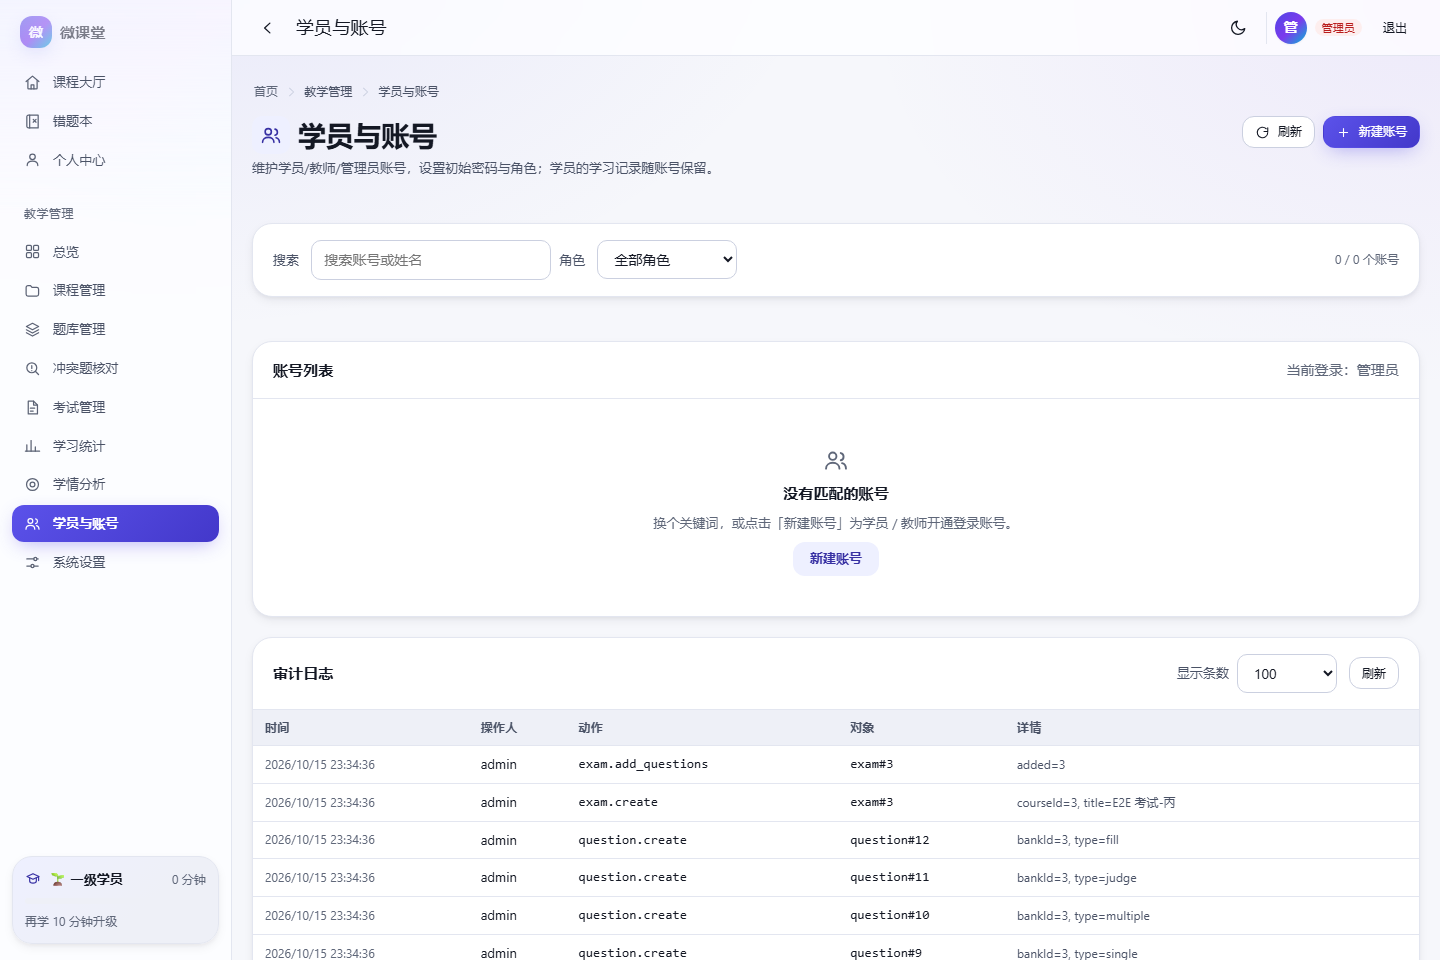
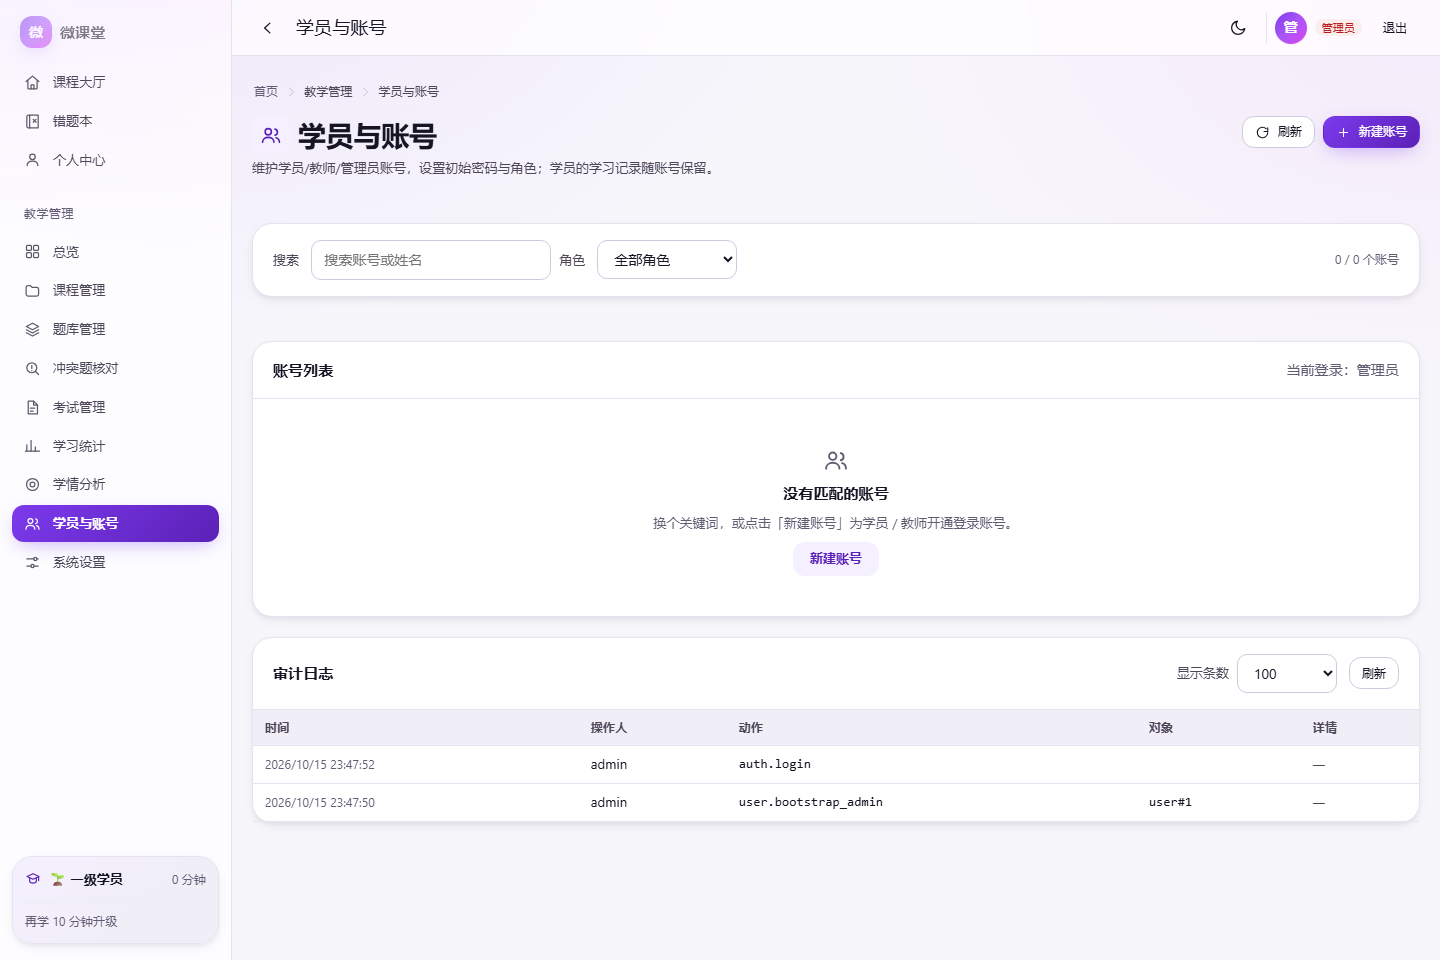
feat(web): 配色改为「紫霞」——紫罗兰 × 品红 + 琥珀点缀
用户否掉第一版靛蓝（"说白了还是蓝色"）。改为明确的紫系，并用对比图让用户在
紫霞 / 松风（翡翠绿）/ 朱砂（玫红橙）三选一，最终选定紫霞。

- 主色 #7c3aed（紫罗兰）、强调 #d946ef（品红）、暖点缀 #f59e0b（琥珀）
- 选它的工程原因：不与语义色打架 —— 危险仍靠红、成功仍靠绿，紫系不会让警示失去辨识度
- 全套替换：色阶(50-900)、中性阶(紫调)、渐变(brand/primary/accent)、品牌光晕、
  毛玻璃、图表色板、暗色主题一一对应
- 渐变主按钮两端压深（#7c3aed → #5b21b6）保证白字 >=4.5:1；
  登录页品牌面板收尾改用 --mc-accent-fg（#a21caf）而非品红本体（后者白字仅 3.2:1）
- 登录页装饰光斑由青改琥珀，呼应"琥珀点缀"
- 新增 --mc-amber / --mc-amber-soft / --mc-amber-border / --mc-amber-fg 令牌

验证：design-guard / 令牌兼容（旧名全保留）/ axe 无障碍 E2E / E2E 32-32 /
单测 478 / prettier+eslint+typecheck+build 全绿；视觉基线重生成；
README 六张展示图同步为紫霞配色。（按用户要求：仅本地提交，暂不推送）

diff --git a/apps/web/src/styles/tokens.css b/apps/web/src/styles/tokens.css
@@ -3,40 +3,50 @@
  * 所有颜色、间距、圆角、阴影、字体只在此处定义，组件禁止硬编码色值。
  * 暗色模式通过 <html data-theme="dark"> 切换同一组语义变量。
  *
- * ============ 2.1 视觉体系（2026-10-15）============
- * 方向：**靛蓝 × 紫罗兰 × 青** 三色品牌体系 —— 比原先的"通用蓝"更有辨识度，
- * 用于渐变封面、按钮光晕、卡片描边与图表；圆角整体放大一档；阴影改分层柔和 + 品牌光晕；
- * 动效统一到「先快后缓」的顺滑曲线，并提供 hover 抬升 / 缩放令牌给"动态卡片"用。
+ * ============ 2.2 视觉体系（2026-10-15）============
+ * 方向：**紫霞 —— 紫罗兰 × 品红 + 琥珀点缀**。
+ * 第一版做成"靛蓝"被否（本质还是蓝），改为明确的紫系：主色 `#7c3aed`、强调 `#d946ef`、
+ * 暖点缀 `#f59e0b`。选它还有个工程原因：**不与语义色打架** ——
+ * 危险/错误仍靠红、成功/掌握仍靠绿，紫系不会让警示失去辨识度。
+ *
+ * 圆角整体放大一档；阴影分层柔和 + 品牌光晕；动效统一「先快后缓」曲线。
  *
  * 兼容性：**只加不改名** —— 既有令牌名全部保留（值可能调整），组件无需改动即可换脸。
  */
 
 :root {
   /* ================= 品牌色 ================= */
-  --mc-primary: #4f46e5;
-  --mc-primary-hover: #4338ca;
-  --mc-primary-active: #3730a3;
-  --mc-primary-soft: #eef0ff;
-  --mc-primary-border: #c7cbfb;
-  /* 压在浅色底上的主色文字（axe 扫描：填充色直接做文字对比度不足 4.5:1） */
-  --mc-primary-fg: #3730a3;
+  --mc-primary: #7c3aed;
+  --mc-primary-hover: #6d28d9;
+  --mc-primary-active: #5b21b6;
+  --mc-primary-soft: #f5f0ff;
+  --mc-primary-border: #ddd0fe;
+  /* 压在浅色底上的主色文字（填充色直接做文字对比度不足 4.5:1） */
+  --mc-primary-fg: #5b21b6;
 
-  /* 第二品牌色（紫罗兰）：用于渐变、强调标签、封面叠色 */
-  --mc-accent: #7c3aed;
-  --mc-accent-hover: #6d28d9;
-  --mc-accent-soft: #f5f0ff;
-  --mc-accent-border: #ddd0fe;
-  --mc-accent-fg: #6d28d9;
-  /* 第三品牌色（青）：用于数据高亮、进度、图表 */
-  --mc-cyan: #06b6d4;
+  /* 第二品牌色（品红）：渐变收尾、强调标签、封面叠色 */
+  --mc-accent: #d946ef;
+  --mc-accent-hover: #c026d3;
+  --mc-accent-soft: #fdf0ff;
+  --mc-accent-border: #f3c9fb;
+  --mc-accent-fg: #a21caf;
+
+  /* 暖点缀（琥珀）：与紫系互补，用于徽标、图表、装饰光斑 */
+  --mc-amber: #f59e0b;
+  --mc-amber-soft: #fff7e8;
+  --mc-amber-border: #f6d99a;
+  --mc-amber-fg: #8a5200;
+
+  /* 冷点缀（青）：留给图表与数据高亮，不参与品牌渐变 */
+  --mc-cyan: #0891b2;
   --mc-cyan-soft: #e6faff;
   --mc-cyan-border: #a5eef9;
   --mc-cyan-fg: #0e7490;
 
-  /* ================= 语义色 ================= */
+  /* ================= 语义色（与品牌色刻意分离） ================= */
   --mc-success: #0b8a4b;
   --mc-success-soft: #e8f8ef;
-  --mc-warning: #c2740a;
+  --mc-warning: #b45309;
   --mc-warning-soft: #fff6e8;
   --mc-warning-border: #f3dcb0;
   --mc-danger: #dc2626;
@@ -48,19 +58,19 @@
   --mc-danger-fg: #b91c1c;
   --mc-info-fg: #075985;
 
-  /* ================= 中性色（浅色主题） ================= */
-  --mc-bg: #f6f7fb;
+  /* ================= 中性色（浅色主题，带一点紫调） ================= */
+  --mc-bg: #f7f6fb;
   --mc-bg-elevated: #ffffff;
   /* 纸张底色（试卷预览 / 扫描页）：印刷品就是白的，浅深主题都不变 */
   --mc-paper-bg: #ffffff;
-  --mc-paper-fg: #141824;
-  --mc-bg-sunken: #eef0f7;
-  --mc-bg-hover: #f1f3fa;
-  --mc-border: #e3e6f0;
-  --mc-border-strong: #cbd0e0;
-  --mc-text: #141824;
-  --mc-text-secondary: #4a5266;
-  --mc-text-muted: #5f6779;
+  --mc-paper-fg: #171423;
+  --mc-bg-sunken: #f0eef7;
+  --mc-bg-hover: #f2f0fa;
+  --mc-border: #e6e3f0;
+  --mc-border-strong: #cfc9e0;
+  --mc-text: #171423;
+  --mc-text-secondary: #4c4658;
+  --mc-text-muted: #625c73;
   --mc-text-inverse: #ffffff;
 
   /* ================= 排版 ================= */
@@ -100,15 +110,15 @@
   --mc-radius-pill: 999px;
 
   /* ================= 阴影（分层柔和 + 品牌光晕） ================= */
-  --mc-shadow-xs: 0 1px 2px rgb(20 24 36 / 5%);
-  --mc-shadow-sm: 0 2px 4px -1px rgb(20 24 36 / 6%), 0 4px 12px -2px rgb(20 24 36 / 8%);
-  --mc-shadow-md: 0 4px 8px -2px rgb(20 24 36 / 8%), 0 12px 24px -4px rgb(20 24 36 / 12%);
-  --mc-shadow-lg: 0 8px 16px -4px rgb(20 24 36 / 10%), 0 24px 48px -8px rgb(20 24 36 / 16%);
-  --mc-shadow-xl: 0 16px 32px -8px rgb(20 24 36 / 12%), 0 40px 72px -12px rgb(20 24 36 / 20%);
-  /* 品牌光晕：主色按钮 / 前景卡片悬浮时用，制造"发光"质感 */
-  --mc-shadow-brand: 0 6px 20px -6px rgb(79 70 229 / 45%);
-  --mc-shadow-brand-strong: 0 10px 32px -8px rgb(79 70 229 / 55%);
-  --mc-shadow-accent: 0 6px 20px -6px rgb(124 58 237 / 45%);
+  --mc-shadow-xs: 0 1px 2px rgb(23 20 35 / 5%);
+  --mc-shadow-sm: 0 2px 4px -1px rgb(23 20 35 / 6%), 0 4px 12px -2px rgb(23 20 35 / 8%);
+  --mc-shadow-md: 0 4px 8px -2px rgb(23 20 35 / 8%), 0 12px 24px -4px rgb(23 20 35 / 12%);
+  --mc-shadow-lg: 0 8px 16px -4px rgb(23 20 35 / 10%), 0 24px 48px -8px rgb(23 20 35 / 16%);
+  --mc-shadow-xl: 0 16px 32px -8px rgb(23 20 35 / 12%), 0 40px 72px -12px rgb(23 20 35 / 20%);
+  /* 品牌光晕：主色按钮 / 活动导航 / 前景卡片悬浮时用，制造"发光"质感 */
+  --mc-shadow-brand: 0 6px 20px -6px rgb(124 58 237 / 45%);
+  --mc-shadow-brand-strong: 0 10px 32px -8px rgb(124 58 237 / 55%);
+  --mc-shadow-accent: 0 6px 20px -6px rgb(217 70 239 / 45%);
 
   /* ================= 布局尺寸 ================= */
   --mc-sidebar-width: 232px;
@@ -123,8 +133,8 @@
   --mc-z-toast: 600;
 
   /* ================= 遮罩与特殊底色 ================= */
-  --mc-overlay: rgb(15 19 25 / 45%);
-  --mc-overlay-strong: rgb(15 19 25 / 55%);
+  --mc-overlay: rgb(19 15 25 / 45%);
+  --mc-overlay-strong: rgb(19 15 25 / 55%);
   --mc-overlay-light: rgb(255 255 255 / 18%);
   --mc-surface-2: rgb(0 0 0 / 4%);
   --mc-surface-2-strong: rgb(0 0 0 / 8%);
@@ -136,12 +146,13 @@
   --mc-glass-border: rgb(255 255 255 / 65%);
   --mc-glass-blur: saturate(180%) blur(16px);
 
-  /* ================= 渐变（品牌三色体系） ================= */
-  --mc-gradient-brand: linear-gradient(135deg, #4f46e5 0%, #7c3aed 52%, #06b6d4 100%);
-  --mc-gradient-brand-soft: linear-gradient(135deg, #eef0ff 0%, #f5f0ff 52%, #e6faff 100%);
-  --mc-gradient-primary: linear-gradient(135deg, #5b52ea 0%, #4338ca 100%);
-  --mc-gradient-accent: linear-gradient(135deg, #8b5cf6 0%, #6d28d9 100%);
-  --mc-gradient-surface: linear-gradient(180deg, #ffffff 0%, #fafbff 100%);
+  /* ================= 渐变（紫霞体系） ================= */
+  --mc-gradient-brand: linear-gradient(135deg, #7c3aed 0%, #a855f7 48%, #d946ef 100%);
+  --mc-gradient-brand-soft: linear-gradient(135deg, #f5f0ff 0%, #fbf0ff 55%, #fff7e8 100%);
+  /* 主按钮用：两端都足够深，白字 ≥4.5:1 */
+  --mc-gradient-primary: linear-gradient(135deg, #7c3aed 0%, #5b21b6 100%);
+  --mc-gradient-accent: linear-gradient(135deg, #d946ef 0%, #a21caf 100%);
+  --mc-gradient-surface: linear-gradient(180deg, #ffffff 0%, #fbfaff 100%);
   --mc-gradient-sheen: linear-gradient(120deg, transparent 20%, rgb(255 255 255 / 55%) 50%, transparent 80%);
 
   /* 渐变遮罩：让装饰性渐隐（侧栏顶部光晕等）自然淡出。
@@ -153,37 +164,38 @@
   --mc-transition: 180ms cubic-bezier(0.32, 0.72, 0, 1);
 
   /* ================= 色阶 ================= */
-  /* 主色阶（靛蓝）：渐变封面、图表、标签底色，与主色同源 */
-  --mc-primary-50: #f2f2ff;
-  --mc-primary-100: #e6e7ff;
-  --mc-primary-200: #cfd1fe;
-  --mc-primary-300: #aeb2fc;
-  --mc-primary-400: #8289f7;
-  --mc-primary-500: #4f46e5;
-  --mc-primary-600: #4338ca;
-  --mc-primary-700: #3730a3;
-  --mc-primary-800: #2e2882;
-  --mc-primary-900: #262269;
+  /* 主色阶（紫罗兰）：渐变封面、图表、标签底色，与主色同源 */
+  --mc-primary-50: #f8f4ff;
+  --mc-primary-100: #f0e8ff;
+  --mc-primary-200: #e0d1fe;
+  --mc-primary-300: #c9adfd;
+  --mc-primary-400: #ad82fa;
+  --mc-primary-500: #7c3aed;
+  --mc-primary-600: #6d28d9;
+  --mc-primary-700: #5b21b6;
+  --mc-primary-800: #4c1d95;
+  --mc-primary-900: #3b1578;
 
-  /* 中性阶（冷调，带一丝靛蓝） */
+  /* 中性阶（紫调） */
   --mc-neutral-0: #ffffff;
-  --mc-neutral-50: #f8f9fc;
-  --mc-neutral-100: #f1f3fa;
-  --mc-neutral-200: #e3e6f0;
-  --mc-neutral-300: #cbd0e0;
-  --mc-neutral-400: #a2abc2;
-  --mc-neutral-500: #7a8399;
-  --mc-neutral-600: #5a6274;
-  --mc-neutral-700: #414857;
-  --mc-neutral-800: #2a2f3c;
-  --mc-neutral-900: #141824;
+  --mc-neutral-50: #faf9fd;
+  --mc-neutral-100: #f3f1f9;
+  --mc-neutral-200: #e6e3f0;
+  --mc-neutral-300: #cfc9e0;
+  --mc-neutral-400: #a79fbd;
+  --mc-neutral-500: #807894;
+  --mc-neutral-600: #5f5872;
+  --mc-neutral-700: #453f54;
+  --mc-neutral-800: #2c2838;
+  --mc-neutral-900: #171423;
 
-  --mc-chart-1: #4f46e5;
-  --mc-chart-2: #06b6d4;
-  --mc-chart-3: #10b981;
+  /* 图表色板：紫系打头，其余用可区分的冷暖色（不全是紫，保证可辨识） */
+  --mc-chart-1: #7c3aed;
+  --mc-chart-2: #d946ef;
+  --mc-chart-3: #0891b2;
   --mc-chart-4: #f59e0b;
-  --mc-chart-5: #ec4899;
-  --mc-chart-6: #8b5cf6;
+  --mc-chart-5: #10b981;
+  --mc-chart-6: #f43f5e;
   --mc-chart-7: #14b8a6;
   --mc-chart-8: #f97316;
 
@@ -237,18 +249,23 @@
 
 /* ================= 暗色主题 ================= */
 html[data-theme='dark'] {
-  --mc-primary: #7c8cff;
-  --mc-primary-hover: #93a0ff;
-  --mc-primary-active: #6a79f0;
-  --mc-primary-soft: #1a1f3d;
-  --mc-primary-border: #333b6b;
-  --mc-primary-fg: #b9c2ff;
+  --mc-primary: #a78bfa;
+  --mc-primary-hover: #b9a1fb;
+  --mc-primary-active: #8b5cf6;
+  --mc-primary-soft: #241a3d;
+  --mc-primary-border: #453273;
+  --mc-primary-fg: #d6c4ff;
 
-  --mc-accent: #a78bfa;
-  --mc-accent-hover: #bda5fc;
-  --mc-accent-soft: #241a3d;
-  --mc-accent-border: #453273;
-  --mc-accent-fg: #c9b4ff;
+  --mc-accent: #e879f9;
+  --mc-accent-hover: #f0a6fb;
+  --mc-accent-soft: #2e1a33;
+  --mc-accent-border: #5c2c66;
+  --mc-accent-fg: #f0abfc;
+
+  --mc-amber: #fbbf24;
+  --mc-amber-soft: #2b2312;
+  --mc-amber-border: #4d3f1a;
+  --mc-amber-fg: #fcd34d;
 
   --mc-cyan: #22d3ee;
   --mc-cyan-soft: #10262e;
@@ -269,49 +286,49 @@ html[data-theme='dark'] {
   --mc-danger-fg: #fca5a5;
   --mc-info-fg: #7dd3fc;
 
-  --mc-bg: #0b0d14;
-  --mc-bg-elevated: #151824;
+  --mc-bg: #0d0b14;
+  --mc-bg-elevated: #171423;
   --mc-paper-bg: #ffffff;
-  --mc-paper-fg: #141824;
-  --mc-bg-sunken: #080a10;
-  --mc-bg-hover: #1c2030;
-  --mc-border: #262b3d;
-  --mc-border-strong: #39405a;
-  --mc-text: #e8ebf5;
-  --mc-text-secondary: #aab3c7;
-  --mc-text-muted: #8f99b0;
-  --mc-text-inverse: #0b0d14;
+  --mc-paper-fg: #171423;
+  --mc-bg-sunken: #0a0810;
+  --mc-bg-hover: #201c2c;
+  --mc-border: #2a2538;
+  --mc-border-strong: #3f3953;
+  --mc-text: #ece9f5;
+  --mc-text-secondary: #b0aac4;
+  --mc-text-muted: #948dab;
+  --mc-text-inverse: #0d0b14;
 
   --mc-shadow-xs: 0 1px 2px rgb(0 0 0 / 45%);
   --mc-shadow-sm: 0 2px 4px -1px rgb(0 0 0 / 45%), 0 4px 12px -2px rgb(0 0 0 / 40%);
   --mc-shadow-md: 0 4px 10px -2px rgb(0 0 0 / 50%), 0 14px 28px -6px rgb(0 0 0 / 45%);
   --mc-shadow-lg: 0 8px 20px -6px rgb(0 0 0 / 55%), 0 28px 56px -12px rgb(0 0 0 / 50%);
   --mc-shadow-xl: 0 16px 36px -10px rgb(0 0 0 / 60%), 0 44px 80px -16px rgb(0 0 0 / 55%);
-  --mc-shadow-brand: 0 6px 22px -6px rgb(124 140 255 / 40%);
-  --mc-shadow-brand-strong: 0 10px 34px -8px rgb(124 140 255 / 50%);
-  --mc-shadow-accent: 0 6px 22px -6px rgb(167 139 250 / 40%);
+  --mc-shadow-brand: 0 6px 22px -6px rgb(167 139 250 / 40%);
+  --mc-shadow-brand-strong: 0 10px 34px -8px rgb(167 139 250 / 50%);
+  --mc-shadow-accent: 0 6px 22px -6px rgb(232 121 249 / 40%);
 
   --mc-surface-2: rgb(255 255 255 / 6%);
   --mc-surface-2-strong: rgb(255 255 255 / 10%);
   --mc-player-bg: #000;
-  --mc-overlay: rgb(4 6 12 / 62%);
-  --mc-overlay-strong: rgb(4 6 12 / 72%);
-  --mc-glass-bg: rgb(21 24 36 / 72%);
+  --mc-overlay: rgb(6 4 12 / 62%);
+  --mc-overlay-strong: rgb(6 4 12 / 72%);
+  --mc-glass-bg: rgb(23 20 35 / 72%);
   --mc-glass-border: rgb(255 255 255 / 8%);
 
-  --mc-gradient-brand: linear-gradient(135deg, #6d7bff 0%, #a78bfa 52%, #22d3ee 100%);
-  --mc-gradient-brand-soft: linear-gradient(135deg, #1a1f3d 0%, #241a3d 52%, #10262e 100%);
-  --mc-gradient-primary: linear-gradient(135deg, #8b97ff 0%, #6a79f0 100%);
-  --mc-gradient-accent: linear-gradient(135deg, #bda5fc 0%, #8b5cf6 100%);
-  --mc-gradient-surface: linear-gradient(180deg, #151824 0%, #12151f 100%);
+  --mc-gradient-brand: linear-gradient(135deg, #a78bfa 0%, #c084fc 48%, #e879f9 100%);
+  --mc-gradient-brand-soft: linear-gradient(135deg, #241a3d 0%, #2b1a33 55%, #2b2312 100%);
+  --mc-gradient-primary: linear-gradient(135deg, #a78bfa 0%, #8b5cf6 100%);
+  --mc-gradient-accent: linear-gradient(135deg, #f0abfc 0%, #a21caf 100%);
+  --mc-gradient-surface: linear-gradient(180deg, #171423 0%, #14111f 100%);
   --mc-gradient-sheen: linear-gradient(120deg, transparent 20%, rgb(255 255 255 / 12%) 50%, transparent 80%);
 
-  --mc-chart-1: #7c8cff;
-  --mc-chart-2: #22d3ee;
-  --mc-chart-3: #34d399;
+  --mc-chart-1: #a78bfa;
+  --mc-chart-2: #e879f9;
+  --mc-chart-3: #22d3ee;
   --mc-chart-4: #fbbf24;
-  --mc-chart-5: #f472b6;
-  --mc-chart-6: #a78bfa;
+  --mc-chart-5: #34d399;
+  --mc-chart-6: #fb7185;
   --mc-chart-7: #2dd4bf;
   --mc-chart-8: #fb923c;
 

diff --git a/apps/web/src/views/LoginView.vue b/apps/web/src/views/LoginView.vue
@@ -180,7 +180,12 @@ async function submit(): Promise<void> {
   overflow: hidden;
   padding: var(--mc-space-12) var(--mc-space-10);
   /* 深靛蓝 → 紫罗兰：保证白色文字始终 ≥4.5:1（青色端太亮，只用于装饰光斑） */
-  background-image: linear-gradient(155deg, var(--mc-primary-700) 0%, var(--mc-primary-500) 46%, var(--mc-accent) 100%);
+  background-image: linear-gradient(
+    155deg,
+    var(--mc-primary-800) 0%,
+    var(--mc-primary-600) 46%,
+    var(--mc-accent-fg) 100%
+  );
   color: var(--mc-neutral-0);
   display: flex;
   flex-direction: column;
@@ -196,7 +201,7 @@ async function submit(): Promise<void> {
   width: 60%;
   aspect-ratio: 1;
   border-radius: 50%;
-  background-image: radial-gradient(circle, color-mix(in srgb, var(--mc-cyan) 55%, transparent) 0%, transparent 68%);
+  background-image: radial-gradient(circle, color-mix(in srgb, var(--mc-amber) 60%, transparent) 0%, transparent 68%);
   opacity: 0.55;
   pointer-events: none;
 }

diff --git a/CHANGELOG.md b/CHANGELOG.md
@@ -11,14 +11,14 @@
 **做法（tokens-first）**：本项目样式几乎全部走令牌（1866 处 `var(--mc-*)`，硬编码色值仅个位数），
 因此**换令牌即可整站换脸**，再逐个升级关键组件与"门面"页面。
 
-| 维度 | 之前 | 现在 |
-| --- | --- | --- |
-| 品牌色 | 通用蓝 `#1f6feb` | **靛蓝 `#4f46e5` × 紫罗兰 `#7c3aed` × 青 `#06b6d4`** 三色体系（旗帜鲜明、有辨识度） |
-| 圆角 | xs2 / sm4 / base8 / lg12 | xs4 / sm6 / base10 / md12 / lg14 / **xl20 / 2xl28** |
-| 阴影 | 单层 4 档 | **分层柔和 5 档（xs→xl）+ 品牌光晕**（brand / brand-strong / accent） |
-| 渐变 | 无统一体系 | brand / brand-soft / primary / accent / surface / **sheen（掠过高光）** |
-| 毛玻璃 | 顶栏局部 blur(8px) | 统一 `--mc-glass-bg / border / blur`（顶栏、侧栏） |
-| 动效 | 单曲线 160ms | 「先快后缓」`cubic-bezier(.32,.72,0,1)` + spring；新增 duration-slow、colors/transform/shadow/all 分组过渡、hover 抬升与缩放令牌 |
+| 维度   | 之前                     | 现在                                                                                                                             |
+| ------ | ------------------------ | -------------------------------------------------------------------------------------------------------------------------------- |
+| 品牌色 | 通用蓝 `#1f6feb`         | **靛蓝 `#4f46e5` × 紫罗兰 `#7c3aed` × 青 `#06b6d4`** 三色体系（旗帜鲜明、有辨识度）                                              |
+| 圆角   | xs2 / sm4 / base8 / lg12 | xs4 / sm6 / base10 / md12 / lg14 / **xl20 / 2xl28**                                                                              |
+| 阴影   | 单层 4 档                | **分层柔和 5 档（xs→xl）+ 品牌光晕**（brand / brand-strong / accent）                                                            |
+| 渐变   | 无统一体系               | brand / brand-soft / primary / accent / surface / **sheen（掠过高光）**                                                          |
+| 毛玻璃 | 顶栏局部 blur(8px)       | 统一 `--mc-glass-bg / border / blur`（顶栏、侧栏）                                                                               |
+| 动效   | 单曲线 160ms             | 「先快后缓」`cubic-bezier(.32,.72,0,1)` + spring；新增 duration-slow、colors/transform/shadow/all 分组过渡、hover 抬升与缩放令牌 |
 
 **组件与页面**：
 
